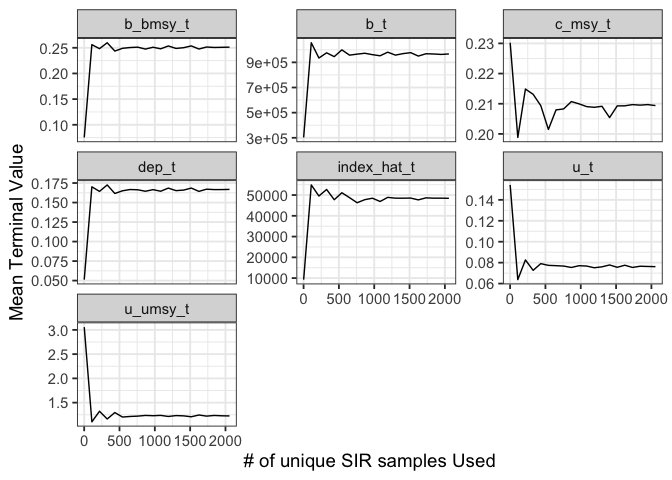
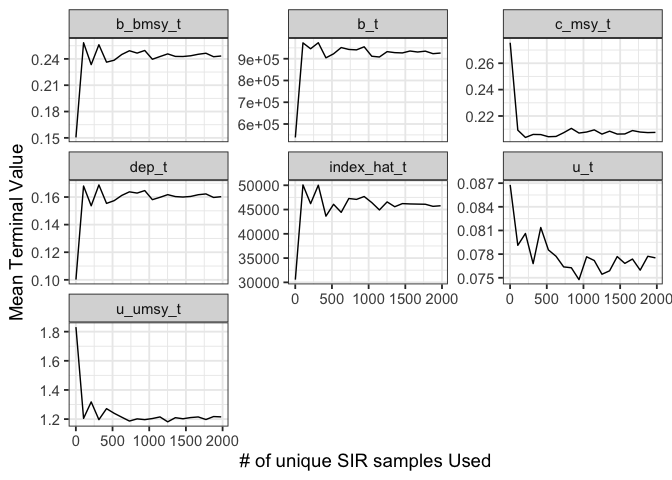
adding kobe plots to plot_sraplus

diff --git a/docs/index.html b/docs/index.html
@@ -191,25 +191,25 @@
 <code class="sourceCode R"><span></span>
 <span><span class="fu"><a href="https://rdrr.io/r/utils/head.html" class="external-link">head</a></span><span class="op">(</span><span class="va">catch_only_fit</span><span class="op">$</span><span class="va">results</span><span class="op">)</span></span>
 <span><span class="co">#&gt; # A tibble: 6 × 6</span></span>
-<span><span class="co">#&gt;    year variable           mean           sd       lower        upper</span></span>
-<span><span class="co">#&gt;   &lt;dbl&gt; &lt;chr&gt;             &lt;dbl&gt;        &lt;dbl&gt;       &lt;dbl&gt;        &lt;dbl&gt;</span></span>
-<span><span class="co">#&gt; 1  1963 b_div_bmsy        0.623       0.0845       0.499        0.790</span></span>
-<span><span class="co">#&gt; 2  1963 b           4704106.    3773624.     2113628.    10041129.   </span></span>
-<span><span class="co">#&gt; 3  1963 c_div_msy         0.306       0.100        0.128        0.441</span></span>
-<span><span class="co">#&gt; 4  1963 crashed           0           0            0            0    </span></span>
-<span><span class="co">#&gt; 5  1963 depletion         0.403       0.0440       0.333        0.470</span></span>
-<span><span class="co">#&gt; 6  1963 index_hat_t  232080.     262370.       26575.      591762.</span></span></code></pre></div>
+<span><span class="co">#&gt;    year variable           mean           sd       lower       upper</span></span>
+<span><span class="co">#&gt;   &lt;dbl&gt; &lt;chr&gt;             &lt;dbl&gt;        &lt;dbl&gt;       &lt;dbl&gt;       &lt;dbl&gt;</span></span>
+<span><span class="co">#&gt; 1  1963 b_div_bmsy        0.617       0.0849       0.501       0.777</span></span>
+<span><span class="co">#&gt; 2  1963 b           4634712.    3401943.     2120449.    9038899.   </span></span>
+<span><span class="co">#&gt; 3  1963 c_div_msy         0.302       0.111        0.117       0.458</span></span>
+<span><span class="co">#&gt; 4  1963 crashed           0           0            0           0    </span></span>
+<span><span class="co">#&gt; 5  1963 depletion         0.397       0.0376       0.337       0.450</span></span>
+<span><span class="co">#&gt; 6  1963 index_hat_t  243334.     284744.       11874.     654311.</span></span></code></pre></div>
 <p><code>results</code> is organized as a dataframe tracking different variables over years. <code>mean</code> is the mean value for a given variable, <code>sd</code> the estimated standard deviation around the mean, and <code>lower</code> and <code>upper</code> being the 10th and 90th percentiles of the estimates.</p>
 <p>You can access other variables from the raw <code>fit</code> object, though this is not standardized by engine and so requires knowing how to for example get outputs out of <code>stanfit</code> objects. In the <code>catch_only_fit</code>, the <code>fit</code> object is the output of the SIR algorithm.</p>
 <div class="sourceCode" id="cb10"><pre class="downlit sourceCode r">
 <code class="sourceCode R"><span><span class="fu"><a href="https://rdrr.io/r/utils/head.html" class="external-link">head</a></span><span class="op">(</span><span class="va">catch_only_fit</span><span class="op">$</span><span class="va">fit</span><span class="op">)</span></span>
 <span><span class="co">#&gt;   variable year draw   value draw_id</span></span>
-<span><span class="co">#&gt; 1      b_t 1963    1 4640558   74102</span></span>
-<span><span class="co">#&gt; 2      b_t 1964    1 4735028   74102</span></span>
-<span><span class="co">#&gt; 3      b_t 1965    1 4824115   74102</span></span>
-<span><span class="co">#&gt; 4      b_t 1966    1 4759478   74102</span></span>
-<span><span class="co">#&gt; 5      b_t 1967    1 4789011   74102</span></span>
-<span><span class="co">#&gt; 6      b_t 1968    1 4883291   74102</span></span></code></pre></div>
+<span><span class="co">#&gt; 1      b_t 1963    1 5087216   91744</span></span>
+<span><span class="co">#&gt; 2      b_t 1964    1 5158110   91744</span></span>
+<span><span class="co">#&gt; 3      b_t 1965    1 7538965   91744</span></span>
+<span><span class="co">#&gt; 4      b_t 1966    1 7753104   91744</span></span>
+<span><span class="co">#&gt; 5      b_t 1967    1 7345095   91744</span></span>
+<span><span class="co">#&gt; 6      b_t 1968    1 8407142   91744</span></span></code></pre></div>
 <p>From there, we can generate some standard plots of B/Bmsy (b_div_bmsy), Catch/MSY, U/Umsy, and depletion over time using <code>plot_sraplus</code>.</p>
 <div class="sourceCode" id="cb11"><pre class="downlit sourceCode r">
 <code class="sourceCode R"><span></span>
@@ -274,7 +274,7 @@
 <span><span class="co">#&gt; [1] "fishlife matched supplied species"</span></span>
 <span><span class="co">#&gt; </span></span>
 <span><span class="co">#&gt; $distinct_sir_draws</span></span>
-<span><span class="co">#&gt; [1] 2057</span></span>
+<span><span class="co">#&gt; [1] 1981</span></span>
 <span><span class="co">#&gt; </span></span>
 <span><span class="co">#&gt; $sir_convergence_plot</span></span></code></pre></div>
 <p><img src="reference/figures/README-unnamed-chunk-10-1.png" width="100%"></p>
@@ -306,7 +306,7 @@
 <span><span class="co">#   facet_wrap(~metric, scales = "free_y") + </span></span>
 <span><span class="co">#   labs(y = "Value", x = "Year") + </span></span>
 <span><span class="co">#   sraplus::theme_sraplus()</span></span></code></pre></div>
-<p>Now, let’s pretend that we have a perfect index of abundance, which is just <code>biomass * 1e-3</code>. We pass indices to <code>srplus</code> inside <code>format_driors</code> as <code>index</code> and <code>index_years</code>, where <code>index_years</code> is a vector of the same length of <code>index</code> specifying which years index data are available. Well now use Template Model Builder (TMB) to estimate stock status based on this index of abundance. We’ll add in some priors on the growth rate and the shape of the Pella-Tomlinson model (1.01 roughly corresponds to a Fox model, where Bmsy/K ~= 0.4). Note that we now set <code>engine = "tmb"</code> to fit the model via maximum likelihood using TMB.</p>
+<p>Now, let’s pretend that we have a perfect index of abundance, which is just <code>biomass * 1e-3</code>. We pass indices to <code>sraplus</code> inside <code>format_driors</code> as <code>index</code> and <code>index_years</code>, where <code>index_years</code> is a vector of the same length of <code>index</code> specifying which years index data are available. Well now use Template Model Builder (TMB) to estimate stock status based on this index of abundance. We’ll add in some priors on the growth rate and the shape of the Pella-Tomlinson model (1.01 roughly corresponds to a Fox model, where Bmsy/K ~= 0.4). Note that we now set <code>engine = "tmb"</code> to fit the model via maximum likelihood using TMB.</p>
 <div class="sourceCode" id="cb16"><pre class="downlit sourceCode r">
 <code class="sourceCode R"><span><span class="va">index_driors</span> <span class="op">&lt;-</span> <span class="fu"><a href="reference/format_driors.html">format_driors</a></span><span class="op">(</span></span>
 <span>  catch <span class="op">=</span> <span class="va">sim</span><span class="op">$</span><span class="va">pop</span><span class="op">$</span><span class="va">catch</span>,</span>
@@ -352,16 +352,7 @@
 <span>    q <span class="op">=</span> <span class="fl">1e-3</span>,</span>
 <span>    m <span class="op">=</span> <span class="fl">1.01</span>,</span>
 <span>    init_u_umsy <span class="op">=</span> <span class="fl">0.75</span></span>
-<span>  <span class="op">)</span></span>
-<span></span>
-<span><span class="co"># sim$pop %&gt;% </span></span>
-<span><span class="co">#   select(year, depletion,catch, effort,u) %&gt;% </span></span>
-<span><span class="co">#   gather(metric, value, -year) %&gt;% </span></span>
-<span><span class="co">#   ggplot(aes(year, value)) + </span></span>
-<span><span class="co">#   geom_point() + </span></span>
-<span><span class="co">#   facet_wrap(~metric, scales = "free_y") + </span></span>
-<span><span class="co">#   labs(y = "Value", x = "Year") + </span></span>
-<span><span class="co">#   sraplus::theme_sraplus()</span></span></code></pre></div>
+<span>  <span class="op">)</span></span></code></pre></div>
 <p>Now suppose we no longer have a perfect index of abundance, but instead data on the catch and effort (CPUE!). But, there are a few problems with these CPUE data. First, we know from the simulation that q is increasing over time, so simply treating Catch/Effort as an index of abundance will be biased (since a unit of effort in the past is not the same as a unit of effort in the present). Second, we need to account for diminishing returns from increasing amounts of effort, and in-season losses to natural mortality. <code>sraplus</code> provides some support to these problems. <code>sraplus</code> will estimate a q. If desired it allows the user to either specify an assumed slope in catchability (where <img src="https://latex.codecogs.com/png.image?%5Cdpi%7B110%7D&amp;space;%5Cbg_white&amp;space;q_t%20%3D%20q_%7Bt-1%7D%20%5Ctimes%20qslope" title="q_t = q_{t-1} \times qslope" alt="q_t = q_{t-1} qslope">), or to attempt to estimate <code>qslope</code> directly. Second, given values of q and qslope (and estimates of natural mortality either supplied by the user or drawn from <code>FishLife</code>), <code>sraplus</code> uses the Baranov equation to translate effort into an effective fishing mortality rate.</p>
 <p><strong>One important note</strong>. By default, <code>sraplus</code> includes estimation of process error. When running a simplified CPUE like this, the model can’t really handle estimating both process error and a q_slope_prior (since the persistent trend in the CPUE values caused by the qslope can be soaked into the process error or the qslope). So, you need to provide a VERY imformative prior on the q_slope_prior parameter if you’re going to try and estimate (i.e. fix the q_slope_prior parameter), or turn off process error (inside <code>fit_sraplus</code> set <code>estimate_proc_error = FALSE</code>) (the recommended option in this case).</p>
 <p>By now the order of operations should be pretty familiar: pass things to driors, then driors to fit_sraplus. In this case, instead of passing an index, we pass effort data, and effort years.</p>
@@ -474,18 +465,27 @@
 <span>             `process error and sar` <span class="op">=</span> <span class="va">cpue_sar_proc_fit</span>,</span>
 <span>             years <span class="op">=</span> <span class="va">cpue_driors</span><span class="op">$</span><span class="va">years</span><span class="op">)</span></span></code></pre></div>
 <p><img src="reference/figures/README-unnamed-chunk-16-1.png" width="100%"></p>
+<p>You can also produce Kobe plots by simply setting <code>kobe = TRUE</code> in <code>plot_sralpus</code></p>
+<div class="sourceCode" id="cb25"><pre class="downlit sourceCode r">
+<code class="sourceCode R"><span><span class="fu"><a href="reference/plot_sraplus.html">plot_sraplus</a></span><span class="op">(</span>`no process error and no qslope ` <span class="op">=</span> <span class="va">cpue_fit</span>, </span>
+<span>             `no process error with qslope` <span class="op">=</span>  <span class="va">cpue_qslope_fit</span>, </span>
+<span>             `no process error with qslope and sar` <span class="op">=</span> <span class="va">cpue_sar_qslope_fit</span>,</span>
+<span>             `process error and sar` <span class="op">=</span> <span class="va">cpue_sar_proc_fit</span>,</span>
+<span>             years <span class="op">=</span> <span class="va">cpue_driors</span><span class="op">$</span><span class="va">years</span>,</span>
+<span>             kobe <span class="op">=</span> <span class="cn">TRUE</span><span class="op">)</span></span></code></pre></div>
+<p><img src="reference/figures/README-unnamed-chunk-17-1.png" width="100%"></p>
 <p>We can also use several built-in processing functions to display and store the results</p>
 <p><code>plot_prior_posterior</code> displays the prior and posterior distributions for selected parameters</p>
-<div class="sourceCode" id="cb25"><pre class="downlit sourceCode r">
+<div class="sourceCode" id="cb26"><pre class="downlit sourceCode r">
 <code class="sourceCode R"><span></span>
 <span><span class="fu"><a href="reference/plot_prior_posterior.html">plot_prior_posterior</a></span><span class="op">(</span><span class="va">cpue_sar_proc_fit</span>, <span class="va">cpue_sar_proc_driors</span><span class="op">)</span></span></code></pre></div>
-<p><img src="reference/figures/README-unnamed-chunk-17-1.png" width="100%"></p>
-<p>We can plot a summary of the most recent status estimates, along with key outcomes such as MSY</p>
-<div class="sourceCode" id="cb26"><pre class="downlit sourceCode r">
-<code class="sourceCode R"><span><span class="fu"><a href="reference/summarize_sralpus.html">summarize_sralpus</a></span><span class="op">(</span><span class="va">cpue_sar_proc_fit</span>, output <span class="op">=</span> <span class="st">"plot"</span><span class="op">)</span></span></code></pre></div>
 <p><img src="reference/figures/README-unnamed-chunk-18-1.png" width="100%"></p>
-<p>Or produce a summary table that can be saved to a .csv file.</p>
+<p>We can plot a summary of the most recent status estimates, along with key outcomes such as MSY</p>
 <div class="sourceCode" id="cb27"><pre class="downlit sourceCode r">
+<code class="sourceCode R"><span><span class="fu"><a href="reference/summarize_sralpus.html">summarize_sralpus</a></span><span class="op">(</span><span class="va">cpue_sar_proc_fit</span>, output <span class="op">=</span> <span class="st">"plot"</span><span class="op">)</span></span></code></pre></div>
+<p><img src="reference/figures/README-unnamed-chunk-19-1.png" width="100%"></p>
+<p>Or produce a summary table that can be saved to a .csv file.</p>
+<div class="sourceCode" id="cb28"><pre class="downlit sourceCode r">
 <code class="sourceCode R"><span><span class="fu">knitr</span><span class="fu">::</span><span class="fu"><a href="https://rdrr.io/pkg/knitr/man/kable.html" class="external-link">kable</a></span><span class="op">(</span><span class="fu"><a href="reference/summarize_sralpus.html">summarize_sralpus</a></span><span class="op">(</span><span class="va">cpue_sar_proc_fit</span>, output <span class="op">=</span> <span class="st">"table"</span><span class="op">)</span>, digits <span class="op">=</span> <span class="fl">2</span><span class="op">)</span> </span></code></pre></div>
 <table class="table">
 <thead><tr class="header">

diff --git a/README.md b/README.md
@@ -205,14 +205,14 @@ Let’s take a quick look at the `results` object.
 
 head(catch_only_fit$results)
 #> # A tibble: 6 × 6
-#>    year variable           mean           sd       lower        upper
-#>   <dbl> <chr>             <dbl>        <dbl>       <dbl>        <dbl>
-#> 1  1963 b_div_bmsy        0.623       0.0845       0.499        0.790
-#> 2  1963 b           4704106.    3773624.     2113628.    10041129.   
-#> 3  1963 c_div_msy         0.306       0.100        0.128        0.441
-#> 4  1963 crashed           0           0            0            0    
-#> 5  1963 depletion         0.403       0.0440       0.333        0.470
-#> 6  1963 index_hat_t  232080.     262370.       26575.      591762.
+#>    year variable           mean           sd       lower       upper
+#>   <dbl> <chr>             <dbl>        <dbl>       <dbl>       <dbl>
+#> 1  1963 b_div_bmsy        0.617       0.0849       0.501       0.777
+#> 2  1963 b           4634712.    3401943.     2120449.    9038899.   
+#> 3  1963 c_div_msy         0.302       0.111        0.117       0.458
+#> 4  1963 crashed           0           0            0           0    
+#> 5  1963 depletion         0.397       0.0376       0.337       0.450
+#> 6  1963 index_hat_t  243334.     284744.       11874.     654311.
 ```
 
 `results` is organized as a dataframe tracking different variables over
@@ -228,12 +228,12 @@ object is the output of the SIR algorithm.
 ``` r
 head(catch_only_fit$fit)
 #>   variable year draw   value draw_id
-#> 1      b_t 1963    1 4640558   74102
-#> 2      b_t 1964    1 4735028   74102
-#> 3      b_t 1965    1 4824115   74102
-#> 4      b_t 1966    1 4759478   74102
-#> 5      b_t 1967    1 4789011   74102
-#> 6      b_t 1968    1 4883291   74102
+#> 1      b_t 1963    1 5087216   91744
+#> 2      b_t 1964    1 5158110   91744
+#> 3      b_t 1965    1 7538965   91744
+#> 4      b_t 1966    1 7753104   91744
+#> 5      b_t 1967    1 7345095   91744
+#> 6      b_t 1968    1 8407142   91744
 ```
 
 From there, we can generate some standard plots of B/Bmsy (b_div_bmsy),
@@ -335,7 +335,7 @@ sraplus::diagnose_sraplus(fit = fmi_sar_fit, driors = fmi_sar_driors )
 #> [1] "fishlife matched supplied species"
 #> 
 #> $distinct_sir_draws
-#> [1] 2057
+#> [1] 1981
 #> 
 #> $sir_convergence_plot
 ```
@@ -376,7 +376,7 @@ sim <-
 ```
 
 Now, let’s pretend that we have a perfect index of abundance, which is
-just `biomass * 1e-3`. We pass indices to `srplus` inside
+just `biomass * 1e-3`. We pass indices to `sraplus` inside
 `format_driors` as `index` and `index_years`, where `index_years` is a
 vector of the same length of `index` specifying which years index data
 are available. Well now use Template Model Builder (TMB) to estimate
@@ -441,15 +441,6 @@ sim <-
     m = 1.01,
     init_u_umsy = 0.75
   )
-
-# sim$pop %>% 
-#   select(year, depletion,catch, effort,u) %>% 
-#   gather(metric, value, -year) %>% 
-#   ggplot(aes(year, value)) + 
-#   geom_point() + 
-#   facet_wrap(~metric, scales = "free_y") + 
-#   labs(y = "Value", x = "Year") + 
-#   sraplus::theme_sraplus()
 ```
 
 Now suppose we no longer have a perfect index of abundance, but instead
@@ -618,6 +609,20 @@ plot_sraplus(`no process error and no qslope ` = cpue_fit,
 
 <img src="man/figures/README-unnamed-chunk-16-1.png" width="100%" />
 
+You can also produce Kobe plots by simply setting `kobe = TRUE` in
+`plot_sralpus`
+
+``` r
+plot_sraplus(`no process error and no qslope ` = cpue_fit, 
+             `no process error with qslope` =  cpue_qslope_fit, 
+             `no process error with qslope and sar` = cpue_sar_qslope_fit,
+             `process error and sar` = cpue_sar_proc_fit,
+             years = cpue_driors$years,
+             kobe = TRUE)
+```
+
+<img src="man/figures/README-unnamed-chunk-17-1.png" width="100%" />
+
 We can also use several built-in processing functions to display and
 store the results
 
@@ -629,7 +634,7 @@ for selected parameters
 plot_prior_posterior(cpue_sar_proc_fit, cpue_sar_proc_driors)
 ```
 
-<img src="man/figures/README-unnamed-chunk-17-1.png" width="100%" />
+<img src="man/figures/README-unnamed-chunk-18-1.png" width="100%" />
 
 We can plot a summary of the most recent status estimates, along with
 key outcomes such as MSY
@@ -638,7 +643,7 @@ key outcomes such as MSY
 summarize_sralpus(cpue_sar_proc_fit, output = "plot")
 ```
 
-<img src="man/figures/README-unnamed-chunk-18-1.png" width="100%" />
+<img src="man/figures/README-unnamed-chunk-19-1.png" width="100%" />
 
 Or produce a summary table that can be saved to a .csv file.
 
